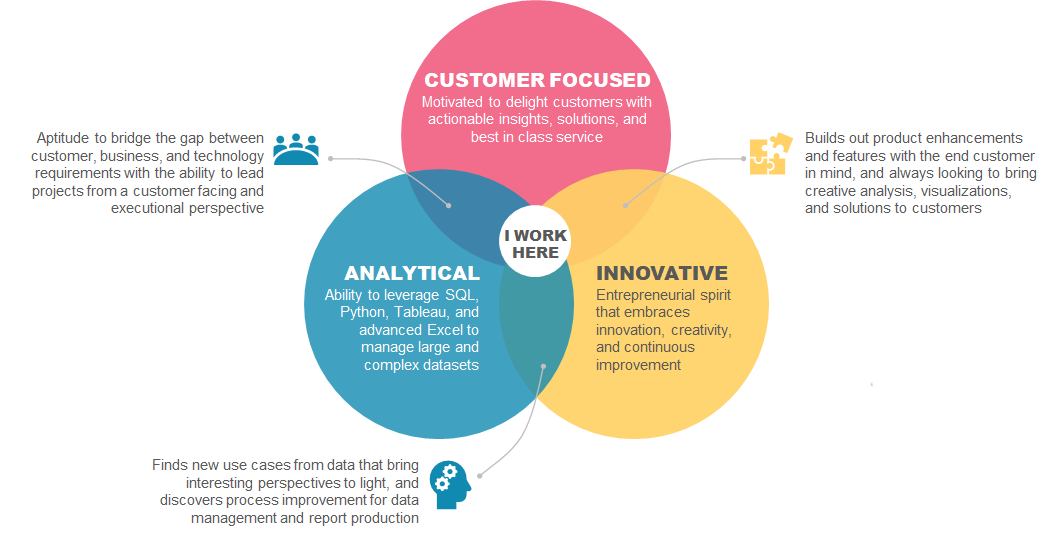
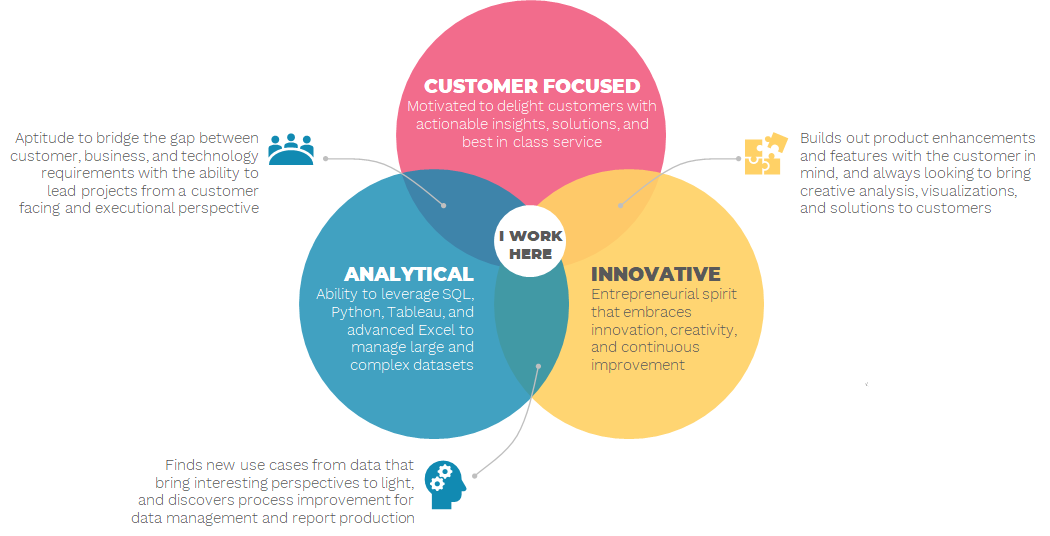
updated fonts

diff --git a/static/style.css b/static/style.css
@@ -1,11 +1,16 @@
-p {font-family: Arial, Helvetica, sans-serif}
+/* fonts https://artisanthemes.io/best-google-fonts-combinations-modern-agency-website/ */
+/* p {font-family: Arial, Helvetica, sans-serif} */
 
-h2 { font-family: "Arial Black", "Arial Bold", Gadget, sans-serif}
+/* h2 { font-family: "Arial Black", "Arial Bold", Gadget, sans-serif} */
+h2 {font-family: 'Montserrat', sans-serif;
+font-weight: 900;}
 
 body  {
     background-image: url("../images/background-node.jpg");
     background-repeat: repeat;
     background-attachment: fixed;
+    font-family: 'Work Sans', sans-serif;
+    font-weight: 550;
     z-index: -10;
   }
 
@@ -33,8 +38,10 @@ body  {
   
   .title {
     /* color: grey; */
-    font-size: 22px;
-    font-family: Arial, Helvetica, sans-serif
+    font-size: 24px;
+    font-family: 'Work Sans', sans-serif;
+    font-weight: bold;
+    padding: 2px
   }
   
   button {
@@ -63,8 +70,63 @@ body  {
   }
 
 
-  /* timeline two http://jsfiddle.net/cfzsgkyn/*/
 
+  /* Profile page */
+
+  .gif-image {
+    height: auto;
+    width: 900px;
+    overflow: hidden; 
+  }
+
+  .gif-excel {
+    height: 300px;
+    width: auto;
+    overflow: hidden; 
+  }
+
+  .hashtag {
+    color: #118AB2;
+    font-style: italic; 
+    font-size: 14px;
+  }
+
+  .project-header{
+    font-family: 'Montserrat', sans-serif;
+    font-weight: 900;
+    font-size: 24px;
+  }
+
+  .project-header-blue{
+    background-color: #118AB2;
+    color: white;
+    padding: 10px;
+    font-family: 'Montserrat', sans-serif;
+    font-weight: 300;
+    font-size: 20px; 
+  }
+
+  .project-header-pink{
+    background-color: #EF476F;
+    color: white;
+    padding: 10px
+  }
+
+  .port-viz-desc{
+    background-color:  rgba(255,182,13, .25);
+    padding: 10px
+  }
+  
+    .io {
+    height: 300px;
+    width: auto;
+    overflow: hidden; 
+  }
+
+
+
+    /* old timeline  http://jsfiddle.net/cfzsgkyn/*/
+/* 
   .list-wrapper {
     position:relative;
   }
@@ -111,53 +173,4 @@ body  {
     height:100%;
     position:absolute;
     left:10px;
-  }
-
-
-  /* Profile page */
-
-  .gif-image {
-    height: auto;
-    width: 900px;
-    overflow: hidden; 
-  }
-
-  .gif-excel {
-    height: 300px;
-    width: auto;
-    overflow: hidden; 
-  }
-
-  .hashtag {
-    color: #118AB2;
-    font-style: italic; 
-    font-size: 14px;
-  }
-
-  .project-header{
-    font-family: "Arial Black", "Arial Bold", Gadget, sans-serif;
-    font-size: 24px;
-  }
-
-  .project-header-blue{
-    background-color: #118AB2;
-    color: white;
-    padding: 10px
-  }
-
-  .project-header-pink{
-    background-color: #EF476F;
-    color: white;
-    padding: 10px
-  }
-
-  .port-viz-desc{
-    background-color:  rgba(255,182,13, .25);
-    padding: 10px
-  }
-  
-    .io {
-    height: 300px;
-    width: auto;
-    overflow: hidden; 
-  }
+  } */

diff --git a/index.html b/index.html
@@ -9,6 +9,7 @@
   <link rel="stylesheet" href="https://stackpath.bootstrapcdn.com/bootstrap/4.3.1/css/bootstrap.min.css" 
     integrity="sha384-ggOyR0iXCbMQv3Xipma34MD+dH/1fQ784/j6cY/iJTQUOhcWr7x9JvoRxT2MZw1T" crossorigin="anonymous">
   <link rel="stylesheet" href="https://cdnjs.cloudflare.com/ajax/libs/font-awesome/4.7.0/css/font-awesome.min.css">
+  <link href="https://fonts.googleapis.com/css?family=Montserrat:900|Work+Sans:300" rel="stylesheet">
    <link rel="stylesheet" href="https://stackpath.bootstrapcdn.com/bootstrap/4.3.1/css/bootstrap.min.css" integrity="sha384-ggOyR0iXCbMQv3Xipma34MD+dH/1fQ784/j6cY/iJTQUOhcWr7x9JvoRxT2MZw1T" crossorigin="anonymous">
 
   <script src="https://code.jquery.com/jquery-3.3.1.slim.min.js" integrity="sha384-q8i/X+965DzO0rT7abK41JStQIAqVgRVzpbzo5smXKp4YfRvH+8abtTE1Pi6jizo" crossorigin="anonymous"></script>
@@ -87,7 +88,7 @@
           tell you a little bit more about myself. 
           <br><br>
           You can check out some actual examples of my work on my <a href=portfolio.html>portfolio page</a>, which showcases project work I've done 
-          using SQL, Python, Tableau, and other data analytics tools. Of course this isn't going to be an entirety of projects I've complete, as 
+          using SQL, Python, Tableau, and other data analytics tools. Of course this isn't going to be an entirety of projects I've completed, as 
           most of those are proprietary to the companies I've worked for. However as a hobbyist who's always looking to build upon my skill-set I 
           have completed projects outside of my work responsibilities which I can share that showcase my abilities.
           <br><br>

diff --git a/portfolio.html b/portfolio.html
@@ -9,6 +9,7 @@
   <link rel="stylesheet" href="https://stackpath.bootstrapcdn.com/bootstrap/4.3.1/css/bootstrap.min.css" 
     integrity="sha384-ggOyR0iXCbMQv3Xipma34MD+dH/1fQ784/j6cY/iJTQUOhcWr7x9JvoRxT2MZw1T" crossorigin="anonymous">
   <link rel="stylesheet" href="https://cdnjs.cloudflare.com/ajax/libs/font-awesome/4.7.0/css/font-awesome.min.css">
+  <link href="https://fonts.googleapis.com/css?family=Montserrat:900|Work+Sans:300" rel="stylesheet">
    <link rel="stylesheet" href="https://stackpath.bootstrapcdn.com/bootstrap/4.3.1/css/bootstrap.min.css" integrity="sha384-ggOyR0iXCbMQv3Xipma34MD+dH/1fQ784/j6cY/iJTQUOhcWr7x9JvoRxT2MZw1T" crossorigin="anonymous">
 
   <script src="https://code.jquery.com/jquery-3.3.1.slim.min.js" integrity="sha384-q8i/X+965DzO0rT7abK41JStQIAqVgRVzpbzo5smXKp4YfRvH+8abtTE1Pi6jizo" crossorigin="anonymous"></script>
